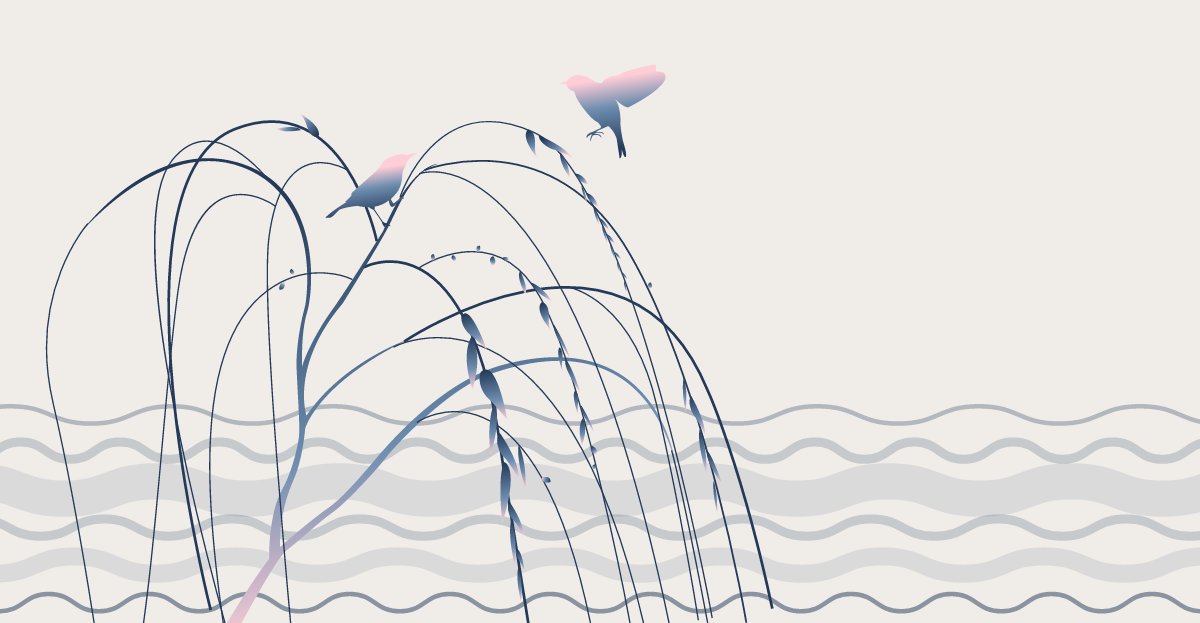
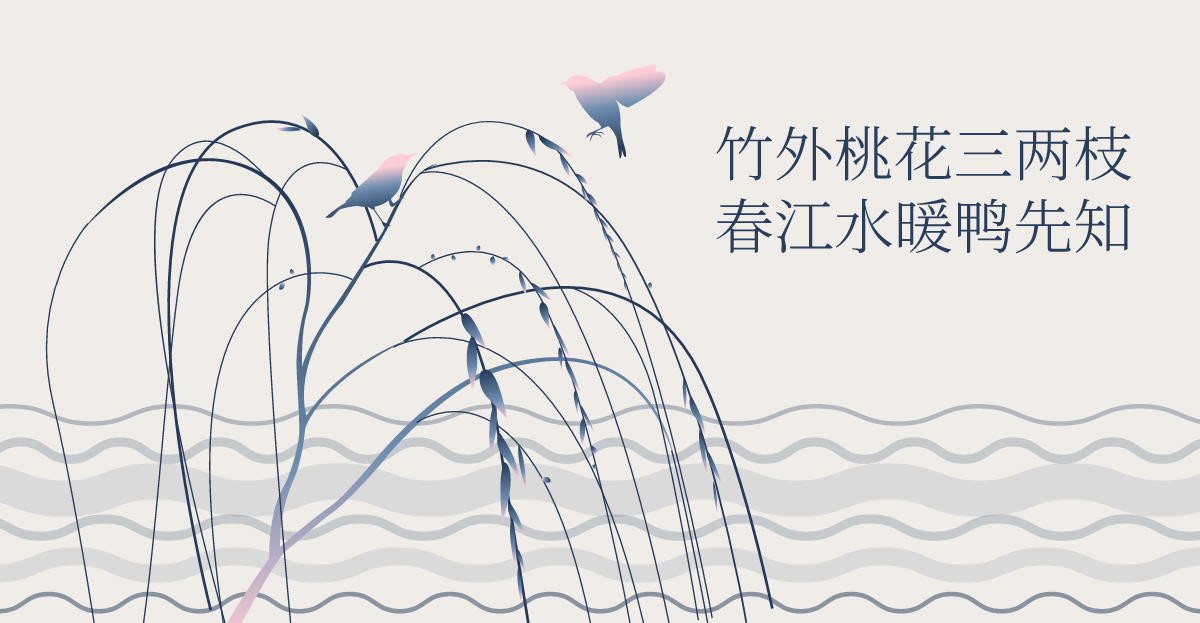
fix: the `defaultFontFamily` not working (#208)
* fix: the `defaultFontFamily` not working

* debug: add text demo

* test: add load custom font test

Changed region(s): [[0.5858, 0.183, 0.9558, 0.427]]

diff --git a/example/text.js b/example/text.js
@@ -1,0 +1,32 @@
+const { promises } = require('fs')
+const { join } = require('path')
+const { performance } = require('perf_hooks')
+
+const { Resvg } = require('../index')
+
+async function main() {
+  const svg = `
+  <svg xmlns="http://www.w3.org/2000/svg" width="200" height="200" viewBox="0 0 200 200">
+    <text fill="blue" font-family="serif" font-size="120">
+      <tspan x="40" y="143">水</tspan>
+    </text>
+  </svg>
+  `
+  const t = performance.now()
+  const resvg = new Resvg(svg, {
+    background: 'pink',
+    font: {
+      fontFiles: ['./example/SourceHanSerifCN-Light-subset.ttf'], // Load custom fonts.
+      loadSystemFonts: false, // It will be faster to disable loading system fonts.
+      defaultFontFamily: 'Source Han Serif CN Light',
+    },
+    logLevel: 'debug', // Default Value: error
+  })
+  const pngData = resvg.render()
+  const pngBuffer = pngData.asPng()
+  console.info('✨ Done in', performance.now() - t, 'ms')
+
+  await promises.writeFile(join(__dirname, './text2-out.png'), pngBuffer)
+}
+
+main()

diff --git a/__test__/index.spec.ts b/__test__/index.spec.ts
@@ -449,6 +449,29 @@ test('should return undefined if bbox is invalid', (t) => {
   t.is(resvg.innerBBox(), undefined)
 })
 
+test('should be load custom fonts', (t) => {
+  const svg = `
+  <svg xmlns="http://www.w3.org/2000/svg" width="200" height="200" viewBox="0 0 200 200">
+    <text fill="blue" font-family="serif" font-size="120">
+      <tspan x="40" y="143">水</tspan>
+    </text>
+  </svg>
+  `
+  const resvg = new Resvg(svg, {
+    font: {
+      fontFiles: ['./example/SourceHanSerifCN-Light-subset.ttf'],
+      loadSystemFonts: false,
+      defaultFontFamily: 'Source Han Serif CN Light',
+    },
+    logLevel: 'debug',
+  })
+  const pngData = resvg.render()
+  const originPixels = pngData.pixels.toJSON().data
+
+  // Find the number of blue `rgb(0,255,255)`pixels
+  t.is(originPixels.join(',').match(/0,0,255/g)?.length, 1726)
+})
+
 test('should throw because invalid SVG attribute (width attribute is 0)', (t) => {
   const error = t.throws(
     () => {

diff --git a/src/fonts.rs b/src/fonts.rs
@@ -42,11 +42,21 @@ pub fn load_fonts(font_options: &JsFontOptions) -> Database {
     // - `cursive` - Comic Sans MS
     // - `fantasy` - Impact (Papyrus on macOS)
     // - `monospace` - Courier New
-    fontdb.set_serif_family(&font_options.serif_family);
-    fontdb.set_sans_serif_family(&font_options.sans_serif_family);
-    fontdb.set_cursive_family(&font_options.cursive_family);
-    fontdb.set_fantasy_family(&font_options.fantasy_family);
-    fontdb.set_monospace_family(&font_options.monospace_family);
+    if !font_options.default_font_family.is_empty() {
+        // If a default font family exists, set all other families to that family.
+        // This prevents fonts from not being rendered in SVG.
+        fontdb.set_serif_family(&font_options.default_font_family);
+        fontdb.set_sans_serif_family(&font_options.default_font_family);
+        fontdb.set_cursive_family(&font_options.default_font_family);
+        fontdb.set_fantasy_family(&font_options.default_font_family);
+        fontdb.set_monospace_family(&font_options.default_font_family);
+    } else {
+        fontdb.set_serif_family(&font_options.serif_family);
+        fontdb.set_sans_serif_family(&font_options.sans_serif_family);
+        fontdb.set_cursive_family(&font_options.cursive_family);
+        fontdb.set_fantasy_family(&font_options.fantasy_family);
+        fontdb.set_monospace_family(&font_options.monospace_family);
+    }
     debug!(
         "Loaded {} font faces in {}ms.",
         fontdb.len(),
